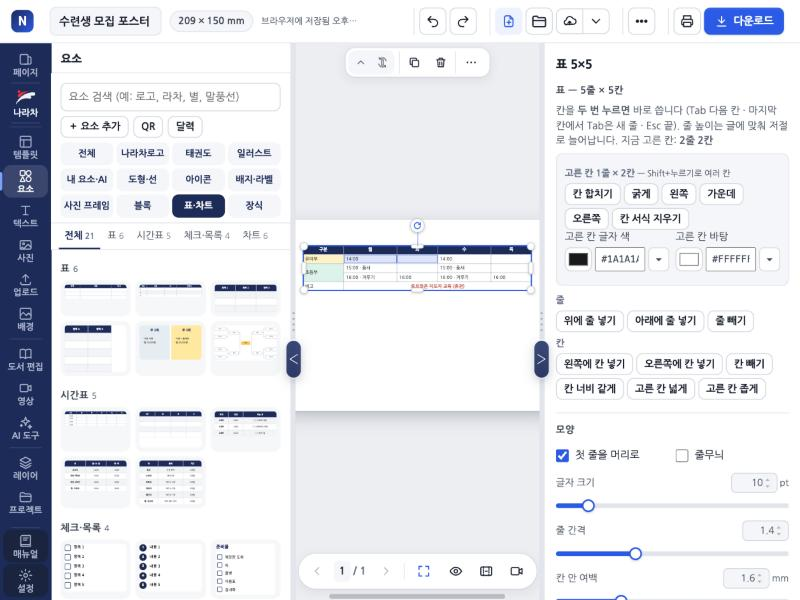
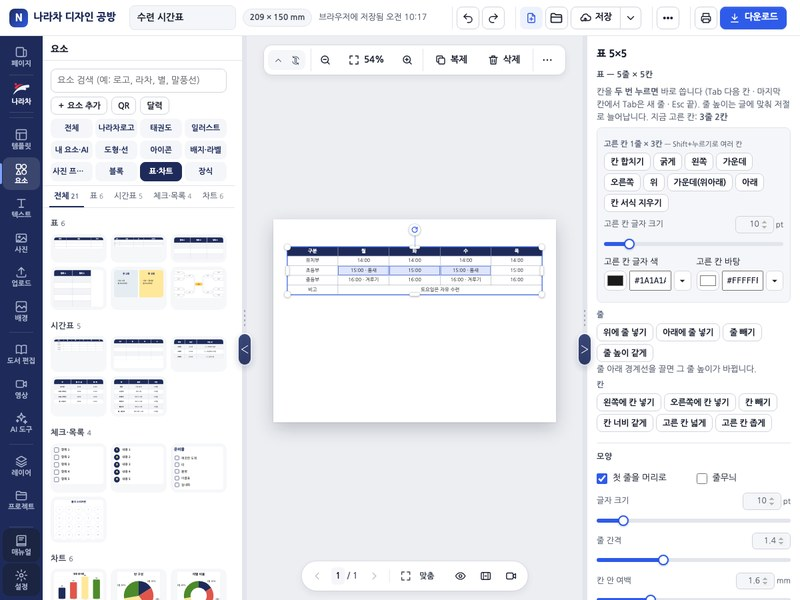
표 칸 글자 크기·위아래 정렬, 줄 높이 끌기, 세로 명함 템플릿 3가지, 매뉴얼 (20261127.1023)

diff --git a/app.js b/app.js
@@ -373,8 +373,9 @@ function tblNorm(el) {
   el.rows = R.map(r => Array.from({ length: C }, (_, i) => String(r[i] == null ? '' : r[i]).slice(0, 4000)));
   let W = Array.isArray(el.colW) ? el.colW.map(Number).filter(v => v > 0).slice(0, C) : []; while (W.length < C) W.push(1); el.colW = W;
   el.head = Math.max(0, Math.min(el.rows.length, Number(el.head) || 0));
-  const NR = el.rows.length, cs = {}; if (el.cs && typeof el.cs === 'object') for (const k in el.cs) { const m = /^(\d+),(\d+)$/.exec(k), v = el.cs[k]; if (!m || +m[1] >= NR || +m[2] >= C || !v || typeof v !== 'object') continue; const o = {}; if (v.b) o.b = 1; if (TBL_HEX(v.color)) o.color = v.color; if (TBL_HEX(v.bg)) o.bg = v.bg; if (['left', 'center', 'right'].includes(v.align)) o.align = v.align; if (Object.keys(o).length) cs[k] = o; }
+  const NR = el.rows.length, cs = {}; if (el.cs && typeof el.cs === 'object') for (const k in el.cs) { const m = /^(\d+),(\d+)$/.exec(k), v = el.cs[k]; if (!m || +m[1] >= NR || +m[2] >= C || !v || typeof v !== 'object') continue; const o = {}; if (v.b) o.b = 1; if (TBL_HEX(v.color)) o.color = v.color; if (TBL_HEX(v.bg)) o.bg = v.bg; if (['left', 'center', 'right'].includes(v.align)) o.align = v.align; if (['top', 'middle', 'bottom'].includes(v.va)) o.va = v.va; { const f = Number(v.fs); if (isFinite(f) && f >= 3 && f <= 200) o.fs = Math.round(f * 2) / 2; } if (Object.keys(o).length) cs[k] = o; }
   el.cs = cs;
+  if (Array.isArray(el.rh)) { const rh = Array.from({ length: NR }, (_, i) => { const v = Number(el.rh[i]); return isFinite(v) && v > 0 ? Math.min(300, Math.round(v * 10) / 10) : 0; }); if (rh.some(v => v)) el.rh = rh; else delete el.rh; } else delete el.rh;  /* 줄마다 최소 높이 mm (끌어서 바꿈, 0 = 글에 맞춤) */
   const taken = new Set(), M = []; (Array.isArray(el.merges) ? el.merges : []).forEach(m => { if (!m) return; let r = Math.floor(+m.r), c = Math.floor(+m.c), rs = Math.floor(+m.rs) || 1, cc = Math.floor(+m.cs) || 1; if (!(r >= 0 && c >= 0 && r < NR && c < C)) return; rs = Math.max(1, Math.min(rs, NR - r)); cc = Math.max(1, Math.min(cc, C - c)); if (rs * cc < 2) return; const keys = []; for (let i = r; i < r + rs; i++) for (let j = c; j < c + cc; j++) keys.push(i + ',' + j); if (keys.some(k => taken.has(k))) return; keys.forEach(k => taken.add(k)); M.push({ r, c, rs, cs: cc }); });
   el.merges = M; return el;
 }
@@ -384,7 +385,7 @@ function tblSafe(el) { const C = v => TBL_HEX(v) ? v : '', N = (v, d) => { v = N
   return { color: C(el.color) || '#1a1a1a', line: C(el.line) || '#9AA3B2', headBg: C(el.headBg) || '#1E2B5A', headColor: C(el.headColor) || '#FFFFFF', zebra: C(el.zebra), cellBg: C(el.cellBg), size: Math.max(3, Math.min(200, N(el.size, 10))), lh: Math.max(0.8, Math.min(4, N(el.lh, 1.4))), pad: Math.max(0, Math.min(30, N(el.pad, 1.6))), lineW: Math.max(0, Math.min(10, N(el.lineW, 0.3))), rowH: Math.max(0, Math.min(100, N(el.rowH, 0))), align: A(el.align, ['left', 'center', 'right'], 'left'), headAlign: A(el.headAlign, ['left', 'center', 'right'], 'center'), valign: A(el.valign, ['top', 'middle', 'bottom'], 'middle'), font: String(el.font || 'Nanum Gothic').replace(/[^\w\s가-힣-]/g, '').slice(0, 60) }; }
 /* 칸 하나의 실제 모양(머리·줄무늬·칸 서식을 겹쳐서) — 화면·PowerPoint가 같이 씀 */
 function tblCellLook(el, ri, ci) { const hd = ri < el.head, zb = !hd && el.zebra && (ri - el.head) % 2 === 1, o = (el.cs || {})[ri + ',' + ci] || {};
-  return { bg: o.bg || (hd ? el.headBg : zb ? el.zebra : el.cellBg) || '', color: o.color || (hd ? el.headColor : el.color), bold: !!(o.b || hd), align: o.align || (hd ? el.headAlign : el.align) }; }
+  return { bg: o.bg || (hd ? el.headBg : zb ? el.zebra : el.cellBg) || '', color: o.color || (hd ? el.headColor : el.color), bold: !!(o.b || hd), align: o.align || (hd ? el.headAlign : el.align), valign: o.va || el.valign || 'middle', fs: o.fs || 0 }; }
 let tblSel = null;  /* 표에서 Shift로 고른 칸 범위 { id, r0, c0, r1, c1 } */
 function tblRange(el) { const t = tblSel && tblSel.id === el.id ? tblSel : tblCell && tblCell.id === el.id ? { r0: tblCell.r, c0: tblCell.c, r1: tblCell.r, c1: tblCell.c } : null; if (!t) return null;
   let r0 = Math.min(t.r0, t.r1), r1 = Math.max(t.r0, t.r1), c0 = Math.min(t.c0, t.c1), c1 = Math.max(t.c0, t.c1), grow = true;
@@ -393,12 +394,13 @@ function tblRange(el) { const t = tblSel && tblSel.id === el.id ? tblSel : tblCe
 function tblHTML(el0, mode) {
   tblNorm(el0); const el = Object.assign({}, el0, tblSafe(el0)); const tot = el.colW.reduce((a, b) => a + b, 0), lw = Math.max(0, Number(el.lineW) || 0), bd = lw ? `${lw}mm solid ${el.line}` : '0';
   const cg = el.colW.map(v => `<col style="width:${(v / tot * 100).toFixed(3)}%">`).join(''), rg = mode === 'edit' && tblSel && tblSel.id === el0.id ? tblRange(el0) : null;
-  const body = el.rows.map((r, ri) => `<tr>${r.map((t, ci) => { const m = tblMergeAt(el, ri, ci); if (m && (m.r !== ri || m.c !== ci)) return ''; const L = tblCellLook(el, ri, ci), on = rg && ri >= rg.r0 && ri <= rg.r1 && ci >= rg.c0 && ci <= rg.c1;
-    return `<td data-r="${ri}" data-c="${ci}"${m ? ` rowspan="${m.rs}" colspan="${m.cs}"` : ''}${on ? ' class="tsel"' : ''} style="border:${bd};padding:${el.pad * 0.6}mm ${el.pad}mm;${el.rowH && ri >= el.head ? `height:${el.rowH}mm;` : ''}vertical-align:${el.valign};text-align:${L.align};${L.bg ? `background:${L.bg};` : ''}color:${L.color};${L.bold ? 'font-weight:700;' : ''}">${esc(t) || '&#8203;'}</td>`; }).join('')}</tr>`).join('');
+  const body = el.rows.map((r, ri) => `<tr${el.rh && el.rh[ri] ? ` style="height:${el.rh[ri]}mm"` : ''}>${r.map((t, ci) => { const m = tblMergeAt(el, ri, ci); if (m && (m.r !== ri || m.c !== ci)) return ''; const L = tblCellLook(el, ri, ci), on = rg && ri >= rg.r0 && ri <= rg.r1 && ci >= rg.c0 && ci <= rg.c1;
+    return `<td data-r="${ri}" data-c="${ci}"${m ? ` rowspan="${m.rs}" colspan="${m.cs}"` : ''}${on ? ' class="tsel"' : ''} style="border:${bd};padding:${el.pad * 0.6}mm ${el.pad}mm;${el.rowH && ri >= el.head ? `height:${el.rowH}mm;` : ''}vertical-align:${L.valign};text-align:${L.align};${L.fs ? `font-size:${L.fs}pt;` : ''}${L.bg ? `background:${L.bg};` : ''}color:${L.color};${L.bold ? 'font-weight:700;' : ''}">${esc(t) || '&#8203;'}</td>`; }).join('')}</tr>`).join('');
   return `<table class="tbl" style="font-family:'${el.font}',var(--font-ui),sans-serif;font-size:${el.size}pt;line-height:${el.lh};color:${el.color};border-collapse:collapse;width:100%;table-layout:fixed"><colgroup>${cg}</colgroup>${body}</table>`;
 }
 /* 줄·칸을 넣거나 뺄 때 칸 서식·합친 칸을 함께 옮김 (axis 'r'·'c', at 자리, d +1 넣기 / -1 빼기) */
 function tblShift(el, axis, at, d) {
+  if (axis === 'r' && Array.isArray(el.rh)) { if (d > 0) el.rh.splice(at, 0, 0); else el.rh.splice(at, 1); }
   const cs = {}; for (const k in el.cs || {}) { let [r, c] = k.split(',').map(Number); let v = axis === 'r' ? r : c; if (d < 0 && v === at) continue; if (v >= at + (d < 0 ? 1 : 0)) v += d; if (axis === 'r') r = v; else c = v; cs[r + ',' + c] = el.cs[k]; } el.cs = cs;
   el.merges = (el.merges || []).map(m => { const p = axis === 'r' ? 'r' : 'c', q = axis === 'r' ? 'rs' : 'cs', o = Object.assign({}, m);
     if (d > 0) { if (at <= o[p]) o[p] += 1; else if (at < o[p] + o[q]) o[q] += 1; }
@@ -1104,12 +1106,20 @@ wrap.addEventListener('dblclick', e => {
   const gl = e.target.closest('.ovl .cgl'); if (gl) { const el = selEls()[0]; if (el) { if (gl.dataset.cgl[0] === 'c') delete el.colW; else delete el.rowH; commit(); rerender(); toast(gl.dataset.cgl[0] === 'c' ? '모든 열 너비를 같게 했습니다' : '모든 행 높이를 같게 했습니다'); } return; }
   const cell = (document.elementsFromPoint(e.clientX, e.clientY).find(n => n.closest && n.closest('.el-cal .cell')) || e.target).closest('.el-cal .cell'); if (cell && sel.length === 1 && find(sel[0]).type === 'cal') { const c = Number(cell.dataset.c); cellSel = { id: sel[0], a: c, b: c }; renderOverlay(); openCellEditor(c); return; }
 });
+function tblRowDrag(e, dom, el, ri) { e.stopImmediatePropagation(); e.preventDefault(); const tr = dom.querySelectorAll('tr')[ri], k = dom.getBoundingClientRect().width / el.w; if (!tr || !(k > 0)) return;
+  const h0 = tr.getBoundingClientRect().height / k, y0 = e.clientY, rh0 = el.rh ? el.rh.slice() : null; let moved = false; tblColDrag = { row: ri };
+  const mv = ev => { const h = Math.max(2, h0 + (ev.clientY - y0) / k); if (Math.abs(ev.clientY - y0) > 2) moved = true; if (!moved) return; tr.style.height = h.toFixed(2) + 'mm'; const nh = dom.getBoundingClientRect().height / k; if (Math.abs(nh - el.h) > 0.05) { el.h = nh; renderOverlay(); } };
+  const up = ev => { document.removeEventListener('pointermove', mv); document.removeEventListener('pointerup', up); tblColDrag = null; if (moved) { const h = Math.max(2, h0 + (ev.clientY - y0) / k); el.rh = el.rows.map((_, i) => i === ri ? Math.round(h * 10) / 10 : ((rh0 || [])[i] || 0)); tblNorm(el); commit(); toast(`${ri + 1}번째 줄 높이 ${Math.round(h * 10) / 10}mm (글에 맞추려면 「줄 높이 저절로」)`); } renderCanvas(); renderOverlay(); renderInspector(); };
+  document.addEventListener('pointermove', mv); document.addEventListener('pointerup', up); }
 wrap.addEventListener('dblclick', e => { const td = e.target.closest('.el-tbl td'); if (!td) return; const el = find(td.closest('.el-tbl').dataset.id); if (!el || el.locked) return; e.stopImmediatePropagation(); e.preventDefault(); if (!sel.includes(el.id)) select([el.id]); openTblEditor(el, Number(td.dataset.r), Number(td.dataset.c)); }, true);  /* 표 칸: 두 번 누르면 바로 쓰기 */
 /* 표 칸 경계 끌기 (11/26): 고른 표의 세로 경계 가까이(5px)에서 끌면 양옆 칸 너비가 바뀜 — 끄는 동안은 <col>만 바꿔 보여 주고 놓으면 저장 */
 function tblBorderAt(dom, el, x, y) { if (!el || el.rot) return -1; const r = dom.getBoundingClientRect(); if (y < r.top || y > r.bottom) return -1; const tot = el.colW.reduce((a, b) => a + b, 0); let cum = 0; for (let b = 0; b < el.colW.length - 1; b++) { cum += el.colW[b]; if (Math.abs(r.left + cum / tot * r.width - x) <= 5) return b; } return -1; }
 let tblColDrag = null;
-wrap.addEventListener('pointermove', e => { if (tblColDrag) return; const dom = e.target.closest && e.target.closest('.el-tbl'); if (!dom) return; const el = find(dom.dataset.id); if (!el || !sel.includes(el.id) || el.locked) { dom.style.cursor = ''; return; } tblNorm(el); dom.style.cursor = tblBorderAt(dom, el, e.clientX, e.clientY) >= 0 ? 'col-resize' : ''; });
-wrap.addEventListener('pointerdown', e => { const dom = e.target.closest && e.target.closest('.el-tbl'); if (!dom || e.button) return; const el = find(dom.dataset.id); if (!el || !sel.includes(el.id) || el.locked) return; tblNorm(el); const b = tblBorderAt(dom, el, e.clientX, e.clientY); if (b < 0) return;
+/* 줄 경계 (11/27): 고른 표의 줄 아래 경계 가까이(4px)면 그 줄 번호 — 끌면 그 줄 최소 높이(el.rh) */
+function tblRowBorderAt(dom, el, x, y) { if (!el || el.rot) return -1; const r = dom.getBoundingClientRect(); if (x < r.left || x > r.right) return -1; const trs = dom.querySelectorAll('tr'); for (let i = 0; i < trs.length; i++) { if (Math.abs(trs[i].getBoundingClientRect().bottom - y) <= 4) return i; } return -1; }
+function tblEqRows(el) { const dom = $('#canvas') && $('#canvas').querySelector(`[data-id="${el.id}"]`); if (!dom) return; const trs = [...dom.querySelectorAll('tr')], k = dom.getBoundingClientRect().width / el.w; if (!(k > 0)) return; let mx = 0; trs.forEach((t, i) => { if (i >= el.head) mx = Math.max(mx, t.getBoundingClientRect().height / k); }); el.rh = el.rows.map((_, i) => i >= el.head ? Math.round(mx * 10) / 10 : ((el.rh || [])[i] || 0)); }
+wrap.addEventListener('pointermove', e => { if (tblColDrag) return; const dom = e.target.closest && e.target.closest('.el-tbl'); if (!dom) return; const el = find(dom.dataset.id); if (!el || !sel.includes(el.id) || el.locked) { dom.style.cursor = ''; return; } tblNorm(el); dom.style.cursor = tblBorderAt(dom, el, e.clientX, e.clientY) >= 0 ? 'col-resize' : tblRowBorderAt(dom, el, e.clientX, e.clientY) >= 0 ? 'row-resize' : ''; });
+wrap.addEventListener('pointerdown', e => { const dom = e.target.closest && e.target.closest('.el-tbl'); if (!dom || e.button) return; const el = find(dom.dataset.id); if (!el || !sel.includes(el.id) || el.locked) return; tblNorm(el); const b = tblBorderAt(dom, el, e.clientX, e.clientY); if (b < 0) { const rr = tblRowBorderAt(dom, el, e.clientX, e.clientY); if (rr >= 0) tblRowDrag(e, dom, el, rr); return; }
   e.stopImmediatePropagation(); e.preventDefault(); const r = dom.getBoundingClientRect(), tot = el.colW.reduce((a, c) => a + c, 0); tblColDrag = { id: el.id, b, x0: e.clientX, w0: el.colW.slice(), perPx: tot / r.width, tot };
   const mv = ev => { const D = tblColDrag; if (!D) return; const d = (ev.clientX - D.x0) * D.perPx, mn = D.tot * 0.04, a = Math.max(mn, Math.min(D.w0[D.b] + D.w0[D.b + 1] - mn, D.w0[D.b] + d)); el.colW = D.w0.slice(); el.colW[D.b] = a; el.colW[D.b + 1] = D.w0[D.b] + D.w0[D.b + 1] - a; const cols = dom.querySelectorAll('col'); el.colW.forEach((v, i) => { if (cols[i]) cols[i].style.width = (v / D.tot * 100).toFixed(3) + '%'; }); };
   const up = () => { document.removeEventListener('pointermove', mv); document.removeEventListener('pointerup', up); const D = tblColDrag; tblColDrag = null; if (D && el.colW.some((v, i) => Math.abs(v - D.w0[i]) > 1e-6)) { el.colW = el.colW.map(v => Math.round(v * 1000) / 1000); commit(); } renderCanvas(); renderOverlay(); renderInspector(); };
@@ -4116,13 +4126,14 @@ function renderInspector() {
     h += `<h3>표 — ${R}줄 × ${C}칸</h3><p class="hint" style="margin:0 0 6px">칸을 <b>두 번 누르면</b> 바로 씁니다 (Tab 다음 칸 · 마지막 칸에서 Tab은 새 줄 · Esc 끝). 줄 높이는 글에 맞춰 저절로 늘어납니다.${cc ? ` 지금 고른 칸: <b>${cc.r + 1}줄 ${cc.c + 1}칸</b>` : ' 칸을 한 번 누르면 그 칸 기준으로 줄·칸을 넣고 뺍니다.'}</p>
     ${(() => { const rg = tblRange(el); if (!rg) return ''; const n = (rg.r1 - rg.r0 + 1) * (rg.c1 - rg.c0 + 1), L = tblCellLook(el, rg.r0, rg.c0), mg = (el.merges || []).some(m => !(m.r > rg.r1 || m.r + m.rs - 1 < rg.r0 || m.c > rg.c1 || m.c + m.cs - 1 < rg.c0));
       return `<div class="tbsel"><div class="pk-lb">고른 칸 ${n > 1 ? `${rg.r1 - rg.r0 + 1}줄 × ${rg.c1 - rg.c0 + 1}칸` : `${rg.r0 + 1}줄 ${rg.c0 + 1}칸`} <small class="hint" style="margin:0">— Shift+누르기로 여러 칸</small></div>
-      <div class="row" style="flex-wrap:wrap;gap:4px">${TB('merge', '칸 합치기', '고른 칸을 한 칸으로 (글은 모두 남김)')}${mg ? TB('split', '합친 칸 나누기') : ''}${TB('bold', L.bold ? '굵게 끄기' : '굵게')}${TB('al:left', '왼쪽')}${TB('al:center', '가운데')}${TB('al:right', '오른쪽')}${TB('fmtClear', '칸 서식 지우기', '고른 칸의 굵게·색·정렬을 표 기본으로')}</div>
+      <div class="row" style="flex-wrap:wrap;gap:4px">${TB('merge', '칸 합치기', '고른 칸을 한 칸으로 (글은 모두 남김)')}${mg ? TB('split', '합친 칸 나누기') : ''}${TB('bold', L.bold ? '굵게 끄기' : '굵게')}${TB('al:left', '왼쪽')}${TB('al:center', '가운데')}${TB('al:right', '오른쪽')}${TB('va:top', '위', '칸 안에서 위로')}${TB('va:middle', '가운데(위아래)', '칸 안에서 위아래 가운데')}${TB('va:bottom', '아래', '칸 안에서 아래로')}${TB('fmtClear', '칸 서식 지우기', '고른 칸의 굵게·색·정렬·글자 크기를 표 기본으로')}</div>
+      ${F('고른 칸 글자 크기', 'tc.fs', L.fs || el.size, { type: 'slider', min: 6, max: 40, step: 0.5, unit: 'pt', def: el.size })}
       <div class="grid2">${F('고른 칸 글자 색', 'tc.color', L.color, { type: 'color' })}${F('고른 칸 바탕', 'tc.bg', L.bg || '#ffffff', { type: 'color' })}</div></div>`; })()}
-    <div class="pk-lb">줄</div><div class="row" style="flex-wrap:wrap;gap:4px">${TB('rowUp', '위에 줄 넣기')}${TB('rowDn', '아래에 줄 넣기')}${TB('rowDel', '줄 빼기', '고른 칸의 줄을 뺌')}</div>
+    <div class="pk-lb">줄</div><div class="row" style="flex-wrap:wrap;gap:4px">${TB('rowUp', '위에 줄 넣기')}${TB('rowDn', '아래에 줄 넣기')}${TB('rowDel', '줄 빼기', '고른 칸의 줄을 뺌')}${TB('rhEq', '줄 높이 같게', '머리 줄 빼고 모든 줄을 가장 높은 줄 높이로')}${el.rh ? TB('rhClear', '줄 높이 저절로', '끌어서 바꾼 줄 높이를 지우고 글에 맞춤') : ''}</div><p class="hint" style="margin:2px 0 0">줄 아래 경계선을 끌면 그 줄 높이가 바뀝니다.</p>
     <div class="pk-lb" style="margin-top:6px">칸</div><div class="row" style="flex-wrap:wrap;gap:4px">${TB('colL', '왼쪽에 칸 넣기')}${TB('colR', '오른쪽에 칸 넣기')}${TB('colDel', '칸 빼기', '고른 칸의 세로 칸을 뺌')}${TB('eqW', '칸 너비 같게')}${TB('wPlus', '고른 칸 넓게', '고른 칸을 넓히고 나머지를 줄임')}${TB('wMinus', '고른 칸 좁게')}</div>
     <h3>모양</h3><div class="grid2">${F('첫 줄을 머리로', 'head', el.head > 0, { type: 'check' })}${F('줄무늬', 'tblZebra', !!el.zebra, { type: 'check' })}</div>
     ${F('글자 크기', 'size', el.size, { type: 'slider', min: 6, max: 40, step: 0.5, unit: 'pt', def: 10 })}${F('줄 간격', 'lh', el.lh, { type: 'slider', min: 1, max: 2.2, step: 0.05, def: 1.4 })}${F('칸 안 여백', 'pad', el.pad, { type: 'slider', min: 0, max: 6, step: 0.1, unit: 'mm', def: 1.6 })}${F('줄 최소 높이 (손글씨 칸)', 'rowH', el.rowH || 0, { type: 'slider', min: 0, max: 30, step: 0.5, unit: 'mm', def: 0 })}
-    <div class="grid2">${F('글꼴', 'font', el.font, { type: 'select', options: [['Nanum Gothic', '나눔고딕'], ['Noto Sans KR', '본고딕(Noto Sans)'], ['Pretendard', '프리텐다드'], ['Nanum Myeongjo', '나눔명조'], ['Noto Serif KR', '본명조(Noto Serif)'], ['Jua', '주아'], ['Gowun Dodum', '고운돋움']] })}${F('정렬', 'align', el.align, { type: 'select', options: [['left', '왼쪽'], ['center', '가운데'], ['right', '오른쪽']] })}</div>
+    <div class="grid2">${F('글꼴', 'font', el.font, { type: 'select', options: [['Nanum Gothic', '나눔고딕'], ['Noto Sans KR', '본고딕(Noto Sans)'], ['Pretendard', '프리텐다드'], ['Nanum Myeongjo', '나눔명조'], ['Noto Serif KR', '본명조(Noto Serif)'], ['Jua', '주아'], ['Gowun Dodum', '고운돋움']] })}${F('정렬', 'align', el.align, { type: 'select', options: [['left', '왼쪽'], ['center', '가운데'], ['right', '오른쪽']] })}</div>${F('칸 안 위아래', 'valign', el.valign, { type: 'select', options: [['top', '위'], ['middle', '가운데'], ['bottom', '아래']] })}
     <div class="grid2">${F('글자 색', 'color', el.color, { type: 'color' })}${F('선 색', 'line', el.line, { type: 'color' })}</div>
     <div class="row" style="gap:6px;align-items:flex-end">${F('칸 바탕', 'cellBg', el.cellBg || '#ffffff', { type: 'color' })}<button class="btn sm" data-set="cellBg:" title="칸 바탕 없이(뒤 배경이 비침)">바탕 없음</button></div>
     ${F('선 굵기', 'lineW', el.lineW, { type: 'slider', min: 0, max: 1.5, step: 0.05, unit: 'mm', def: 0.3 })}
@@ -4274,15 +4285,18 @@ function tblAct(el, a) {
     el.merges = (el.merges || []).filter(m => m.r > rg.r1 || m.r + m.rs - 1 < rg.r0 || m.c > rg.c1 || m.c + m.cs - 1 < rg.c0).concat([{ r: rg.r0, c: rg.c0, rs: rg.r1 - rg.r0 + 1, cs: rg.c1 - rg.c0 + 1 }]); tblCell = { id: el.id, r: rg.r0, c: rg.c0 }; keep(); }
   else if (a === 'split') { const before = (el.merges || []).length; el.merges = (el.merges || []).filter(m => m.r > rg.r1 || m.r + m.rs - 1 < rg.r0 || m.c > rg.c1 || m.c + m.cs - 1 < rg.c0); if (el.merges.length === before) { toast('고른 칸에 합친 칸이 없습니다'); return; } keep(); }
   else if (a === 'bold') { let all = true; each((i, j) => { if (!tblCellLook(el, i, j).bold) all = false; }); each((i, j) => { const k = i + ',' + j, o = Object.assign({}, el.cs[k]); if (all) delete o.b; else o.b = 1; if (Object.keys(o).length) el.cs[k] = o; else delete el.cs[k]; }); }
+  else if (/^va:/.test(a)) { const v = a.slice(3); each((i, j) => { const k = i + ',' + j; el.cs[k] = Object.assign({}, el.cs[k], { va: v }); }); }
+  else if (a === 'rhClear') { delete el.rh; }
+  else if (a === 'rhEq') { tblEqRows(el); }
   else if (/^al:/.test(a)) { const v = a.slice(3); each((i, j) => { const k = i + ',' + j; el.cs[k] = Object.assign({}, el.cs[k], { align: v }); }); }
   else if (a === 'fmtClear') each((i, j) => { delete el.cs[i + ',' + j]; });
   commit(); renderCanvas(); renderOverlay(); renderInspector();
 }
 /* 고른 칸들의 글자 색·바탕 (속성 칸의 색 고르기) */
-function tblCellSet(el, k, v) { tblNorm(el); const rg = tblRange(el); if (!rg) return; for (let i = rg.r0; i <= rg.r1; i++) for (let j = rg.c0; j <= rg.c1; j++) { const key = i + ',' + j, o = Object.assign({}, el.cs[key]); if (v && TBL_HEX(v)) o[k] = v; else delete o[k]; if (Object.keys(o).length) el.cs[key] = o; else delete el.cs[key]; } }
+function tblCellSet(el, k, v) { tblNorm(el); const rg = tblRange(el); if (!rg) return; for (let i = rg.r0; i <= rg.r1; i++) for (let j = rg.c0; j <= rg.c1; j++) { const key = i + ',' + j, o = Object.assign({}, el.cs[key]); if (k === 'fs') { const f = Number(v); if (isFinite(f) && f >= 3 && f <= 200 && Math.abs(f - Number(el.size)) > 0.01) o.fs = f; else delete o.fs; } else if (v && TBL_HEX(v)) o[k] = v; else delete o[k]; if (Object.keys(o).length) el.cs[key] = o; else delete el.cs[key]; } }
 /* 지금 고른 칸들을 화면에서 표시만 (다시 그리지 않음 — 누르는 중에 화면을 바꾸면 끌기가 끊김) */
 function tblPaintSel(id) { const el = find(id), dom = $('#canvas') && $('#canvas').querySelector(`[data-id="${id}"]`); if (!el || !dom) return; const rg = tblSel && tblSel.id === id ? tblRange(el) : null; dom.querySelectorAll('td').forEach(td => { const r = +td.dataset.r, c = +td.dataset.c; td.classList.toggle('tsel', !!rg && r >= rg.r0 && r <= rg.r1 && c >= rg.c0 && c <= rg.c1); }); }
-function setK(obj, k, v) { if (obj && obj.type === 'tbl' && (k === 'tc.color' || k === 'tc.bg')) { tblCellSet(obj, k.slice(3), v); return; } if (obj && obj.type === 'tbl' && (k === 'head' || k === 'tblZebra')) { if (k === 'head') obj.head = v === true || v === 'true' || v === 'on' || v === 1 ? 1 : 0; else obj.zebra = v === true || v === 'true' || v === 'on' ? (obj.zebraC || '#F3F4F7') : ''; return; } if (obj && obj.type === 'tbl' && k === 'zebra') obj.zebraC = v; if (obj && (obj.type === 'cal' || obj.type === 'mini') && /^s\./.test(k)) obj.sUser = Object.assign({}, obj.sUser, { [k.slice(2)]: 1 });  /* 달력 모양 중 사용자가 바꾼 것 — 테마·달을 바꿔도 남김 */ if (k === 'size' && obj && obj.fitText && Number(v) > 0) { obj.fitMax = Number(v); fitCache.delete(obj.id); } /* 자동 맞춤 글자: 고른 크기가 새 최대 */ const ks = k.split('.'); let a = obj; for (let i = 0; i < ks.length - 1; i++) { if (a[ks[i]] == null) a[ks[i]] = ks[i + 1].match(/^\d+$/) ? [] : {}; a = a[ks[i]]; } a[ks[ks.length - 1]] = v; }
+function setK(obj, k, v) { if (obj && obj.type === 'tbl' && (k === 'tc.color' || k === 'tc.bg' || k === 'tc.fs')) { tblCellSet(obj, k.slice(3), v); return; } if (obj && obj.type === 'tbl' && (k === 'head' || k === 'tblZebra')) { if (k === 'head') obj.head = v === true || v === 'true' || v === 'on' || v === 1 ? 1 : 0; else obj.zebra = v === true || v === 'true' || v === 'on' ? (obj.zebraC || '#F3F4F7') : ''; return; } if (obj && obj.type === 'tbl' && k === 'zebra') obj.zebraC = v; if (obj && (obj.type === 'cal' || obj.type === 'mini') && /^s\./.test(k)) obj.sUser = Object.assign({}, obj.sUser, { [k.slice(2)]: 1 });  /* 달력 모양 중 사용자가 바꾼 것 — 테마·달을 바꿔도 남김 */ if (k === 'size' && obj && obj.fitText && Number(v) > 0) { obj.fitMax = Number(v); fitCache.delete(obj.id); } /* 자동 맞춤 글자: 고른 크기가 새 최대 */ const ks = k.split('.'); let a = obj; for (let i = 0; i < ks.length - 1; i++) { if (a[ks[i]] == null) a[ks[i]] = ks[i + 1].match(/^\d+$/) ? [] : {}; a = a[ks[i]]; } a[ks[ks.length - 1]] = v; }
 $('#inspector').addEventListener('change', e => { const k = e.target.dataset.k; if (k === 'grp.w' || k === 'grp.h') { const ev = new Event('input', { bubbles: true }); ev.__apply = true; e.target.dispatchEvent(ev); } }, true);
 $('#inspector').addEventListener('input', e => {
   const t = e.target, k = t.dataset.k; if (!k) return;
@@ -6307,8 +6321,8 @@ async function exportPPTX(pages, say, base, asImg, keepFonts) {
     const s = pptx.addSlide(); s.addImage({ data, x: 0, y: 0, w: iw, h: ih, altText: '바탕(도형·그림)' });
     for (const e of tx) { const runs = pptRuns(e); pptLineSp(runs, Number(e.lh) || 1.3); runs.forEach(r => { if (embed) { const f = faceOf.get(r.options.fontFace + '|' + (Number(r.options._w) || (r.options.bold ? 700 : 400))); if (f) { r.options.fontFace = f.name; r.options.bold = f.bold || (!!r.options.bold && !/thin|light|medium|semibold|extrabold|black|heavy/i.test(f.name)); } else r.options.fontFace = PPT_SERIF.test(r.options.fontFace || '') ? 'Batang' : 'Malgun Gothic'; } else if (!keepFonts) r.options.fontFace = PPT_SERIF.test(r.options.fontFace || '') ? 'Batang' : 'Malgun Gothic'; fonts.add(r.options.fontFace); }); s.addText(runs, pptTextOpts(e)); nText++; }
     for (const e of tbs) { tblNorm(e); const PT = 72 / 25.4, tot = e.colW.reduce((a, b) => a + b, 0), hex = c => String(c || '#000000').replace('#', '').slice(0, 6), face = embed ? ((faceOf.get(tblSafe(e).font + '|400') || {}).name || (PPT_SERIF.test(e.font || '') ? 'Batang' : 'Malgun Gothic')) : keepFonts ? tblSafe(e).font : (PPT_SERIF.test(e.font || '') ? 'Batang' : 'Malgun Gothic');  /* 표는 PowerPoint 표로 (칸 글을 고칠 수 있게) */
-      const rows = e.rows.map((r, ri) => r.map((t, ci) => { const m = tblMergeAt(e, ri, ci); if (m && (m.r !== ri || m.c !== ci)) return null; const L = tblCellLook(e, ri, ci), o = { bold: L.bold, color: hex(L.color), align: L.align }; if (L.bg) o.fill = { color: hex(L.bg) }; if (m) { o.rowspan = m.rs; o.colspan = m.cs; } return { text: t, options: o }; }).filter(Boolean));  /* 합친 칸은 rowspan·colspan, 덮인 칸은 뺌 */
-      try { s.addTable(rows, Object.assign(Number(e.rowH) > 0 ? { rowH: e.rows.map((r, ri) => ri < e.head ? 0.3 : Number(e.rowH) / 25.4) } : {}, { x: e.x / 25.4, y: e.y / 25.4, w: e.w / 25.4, colW: e.colW.map(v => e.w / 25.4 * v / tot), fontFace: face, fontSize: e.size, color: hex(e.color), align: e.align, valign: e.valign === 'middle' ? 'middle' : e.valign, margin: e.pad * PT * 0.6, border: { type: e.lineW ? 'solid' : 'none', pt: Math.max(0.25, e.lineW * PT), color: hex(e.line) } })); nTbl++; if (!keepFonts || embed) fonts.add(face); } catch (er) { console.warn('표 내보내기 실패', er); } }
+      const rows = e.rows.map((r, ri) => r.map((t, ci) => { const m = tblMergeAt(e, ri, ci); if (m && (m.r !== ri || m.c !== ci)) return null; const L = tblCellLook(e, ri, ci), o = { bold: L.bold, color: hex(L.color), align: L.align, valign: L.valign }; if (L.fs) o.fontSize = L.fs; if (L.bg) o.fill = { color: hex(L.bg) }; if (m) { o.rowspan = m.rs; o.colspan = m.cs; } return { text: t, options: o }; }).filter(Boolean));  /* 합친 칸은 rowspan·colspan, 덮인 칸은 뺌 */
+      try { s.addTable(rows, Object.assign(Number(e.rowH) > 0 || e.rh ? { rowH: e.rows.map((r, ri) => { const mm = Math.max((e.rh || [])[ri] || 0, ri >= e.head ? Number(e.rowH) || 0 : 0); return mm ? mm / 25.4 : 0.3; }) } : {}, { x: e.x / 25.4, y: e.y / 25.4, w: e.w / 25.4, colW: e.colW.map(v => e.w / 25.4 * v / tot), fontFace: face, fontSize: e.size, color: hex(e.color), align: e.align, valign: e.valign === 'middle' ? 'middle' : e.valign, margin: e.pad * PT * 0.6, border: { type: e.lineW ? 'solid' : 'none', pt: Math.max(0.25, e.lineW * PT), color: hex(e.line) } })); nTbl++; if (!keepFonts || embed) fonts.add(face); } catch (er) { console.warn('표 내보내기 실패', er); } }
     if (pg.notes) s.addNotes(String(pg.notes)); }
   say('파일 만드는 중…'); let blob = await pptx.write({ outputType: 'blob' }); if (embFaces.length) { say(`글꼴 ${embFaces.length}개 넣는 중…`); blob = await pptEmbed(blob, embFaces); } saveBlob(blob, `${base}.pptx`);
   if (embed && !asImg) { const sk = [...skipped].map(([f, w]) => `${f} — ${w}`); toast(`PowerPoint 파일로 저장했습니다 — ${pages.length}쪽 · 글 상자 ${nText}개${nTbl ? ` · 표 ${nTbl}개` : ''} · 📦 글꼴 ${embFaces.length ? [...new Set(embFaces.map(f => f.name))].join(', ') + ` 넣음` : '넣은 것 없음'} · 파일 ${(blob.size / 1048576).toFixed(1)}MB${sk.length ? ` · 못 넣은 글꼴(맑은 고딕·바탕으로): ${sk.join(' / ')}` : ''}`); return; }
@@ -6371,7 +6385,7 @@ function doPaste(inPlace) {
 }
 
 /* ---- 스타일 복사·붙여넣기 (Ctrl+Alt+C / Ctrl+Alt+V) ---- */
-const STYLE_SKIP = new Set(['rot', 'zoom', 'panX', 'panY', 'pos', 'clip', 'flip', 'flipV', 'fit', 'crop', 'id', 'type', 'x', 'y', 'w', 'h', 'text', 'html', 'htmlFor', 'src', 'srcOrig', 'name', 'role', 'month', 'group', 'locked', 'hidden', 'gen', 'pts', 'data', 'events', 'notes', 'cells', 'merges', 'colW', 'rowH', 'year', 'title', 'kind']);
+const STYLE_SKIP = new Set(['rot', 'zoom', 'panX', 'panY', 'pos', 'clip', 'flip', 'flipV', 'fit', 'crop', 'id', 'type', 'x', 'y', 'w', 'h', 'text', 'html', 'htmlFor', 'src', 'srcOrig', 'name', 'role', 'month', 'group', 'locked', 'hidden', 'gen', 'pts', 'data', 'events', 'notes', 'cells', 'merges', 'colW', 'rowH', 'rows', 'cs', 'rh', 'year', 'title', 'kind']);
 let styleClip = null;
 function copyStyle() { const el = selEls()[0]; if (!el) return; const st = {}; Object.keys(el).forEach(k => { if (!STYLE_SKIP.has(k)) st[k] = clone(el[k]); }); if (el.type === 'shape') st.kind = el.kind; styleClip = { type: el.type, st }; toast('스타일을 복사했습니다 (Ctrl+Alt+V로 다른 요소에 붙여넣기)'); }
 function pasteStyle() {

diff --git a/manual.js b/manual.js
@@ -112,8 +112,8 @@ window.NC_MANUAL = [
         marks: [[22, 29, '1단 12칸 (4×3)'], [20.5, 38.2, '2단계 메뉴'], [16, 42.8, '도형 색 고르기'], [31.5, 48.6, '더보기 › = 그 묶음 전체']], go: [['elems', '요소 열기']] },
       { stage: '④ 꾸미기·요소', t: '요소 빼기·지우기·더하기', d: '요소는 칸별로 나뉩니다 — <b>나라차로고</b>(로고·심볼·엠블럼만) · <b>태권도</b>(띠·상·메달·격파·품새 + 자료실의 태권도 포즈 사진·겨루기·동작 실루엣) · <b>일러스트</b>(인성 캐릭터·인성 장면·라차·단체·지난 그림) · <b>내 요소·AI</b>(내가 올린 그림·AI 그림·내 블록) · 도형·선 …. 요소에 마우스를 올리면 오른쪽 위에 <b>×</b>가 나옵니다: 프로그램·자료실 요소는 <b>목록에서만 빠지고</b>(원본 파일은 그대로) 패널 맨 아래 <b>「뺀 요소 — 되살리기」</b>에서 다시 살릴 수 있고, 내가 올린 그림·AI 그림은 물어본 뒤 <b>정말 지웁니다</b>. 자료실 묶음 제목 옆 「묶음 빼기」로 한 묶음을 통째로 뺄 수도 있어요(태권도 캐릭터(만화)는 처음부터 빠져 있음). 뺀 목록은 자료실 폴더에 보관돼 두 PC가 같습니다. 「뺀 요소」의 <b>비우기</b>는 뺀 자료실 그림·내 그림을 정말 지웁니다(구글 드라이브 휴지통 30일 · 자료실 목록 백업을 남김 · 프로그램 요소는 계속 빠진 채). <b>요소 더하기</b>: 넣을 칸(나라차로고·태권도·내 요소·AI)을 고른 뒤 위 <b>＋ 요소 추가</b>(또는 칸 안의 「＋ 로고 추가」·「＋ 태권도 그림 추가」)를 눌러 PNG·SVG·JPG를 고르거나, 파일을 요소 패널에 <b>끌어 놓으면</b> 그 칸에 들어갑니다(자료실에 보관 — 두 PC 모두). 나라차로고 칸에는 팀장님이 주신 원본 — <b>라차 4가지</b>(NARACHA 로고·옆차기·겨루기 준비·높이 차기, 고화질), <b>사각 로고·시범단 로고(사각·육각)·라인 패턴 띠·은은한 상징(워터마크)</b> — 도 있습니다. 시범단 육각 로고는 두 가지입니다(나라차로고 → <b>로고 · 심볼</b> 칸 끝, 사각 로고들 옆) — 그림 아래 작은 배지 <b>「흰 바탕」</b>은 육각 안이 흰색으로 채워져 어떤 바탕·사진 위에서도 글자가 또렷하고, <b>「배경 없음」</b>(연한 체크무늬 카드)은 육각 안이 비어 있어 바탕색·사진이 비쳐 보입니다. 그림 아래 <b>배경 없음</b> 배지가 붙은 흰 로고(어두운 체크무늬 카드)는 보이게 어두운 바탕 위에 보여 줄 뿐, 넣으면 배경 없이 흰 로고만 들어갑니다(어두운 바탕·사진 위에 쓰세요). 요소 카드에는 이름을 적지 않고 그림만 보입니다 — 이름은 마우스를 올리면 나옵니다.', img: 'm87-elem-tabs.jpg',
         marks: [[22, 32, '나라차로고 · 태권도 · 내 요소·AI'], [15.3, 77, '배경 없음 배지'], [14.6, 26.3, '＋ 요소 추가 (지금 칸에)']], go: [['elems', '요소 열기']] },
-      { stage: '④ 꾸미기·요소', t: '표 — 칸에 바로 쓰고 줄·칸 넣기·칸 합치기', d: '<b>요소 → 표·차트 → 표</b> 맨 앞의 「표 (칸에 바로 쓰기)」·「시간표」·「명단표」는 진짜 표입니다. 넣은 뒤 칸을 <b>두 번 누르면</b> 그 칸에 바로 씁니다 — <b>Tab</b> 다음 칸(마지막 칸에서 Tab은 새 줄), <b>Shift+Tab</b> 앞 칸, <b>Esc</b> 끝. 줄 높이는 글 길이에 맞춰 <b>저절로</b> 늘고 줄어듭니다. 손으로 적는 명단·서식이면 오른쪽 <b>줄 최소 높이</b>(예: 10mm)를 정하면 빈 줄도 그 높이가 됩니다(머리 줄은 빼고). <b>칸 고르기</b>: 표를 한 번 누르면 표 전체가 골라지고, 고른 표의 칸을 <b>한 번 더 누르면</b> 그 칸이 파랗게 골라집니다 — 화살표로 옆 칸으로 옮기고(Shift+화살표는 넓히기), <b>Enter</b>로 쓰기, 바로 치면 그 칸에 새 글, <b>⌘B / Ctrl+B</b>로 고른 칸 굵게, <b>Esc</b>로 칸 고르기를 풉니다. <b>여러 칸 고르기</b>: 칸을 한 번 누른 뒤 <b>Shift를 누른 채</b> 다른 칸을 누르면 그 사이 칸이 모두 파랗게 골라집니다. 오른쪽 맨 위 「고른 칸」에서 <b>칸 합치기</b>(글은 모두 남겨 줄을 바꿔 이어 붙임) · <b>합친 칸 나누기</b> · <b>굵게</b> · 왼쪽/가운데/오른쪽 · <b>고른 칸 글자 색·바탕</b> · 칸 서식 지우기. 줄·칸을 넣거나 빼도 합친 칸과 칸 서식이 함께 따라갑니다. <b>칸 너비</b>는 표를 고른 뒤 세로 경계선에 마우스를 대면 ↔ 모양이 되고, 그대로 끌면 양옆 칸 너비가 바뀝니다. <b>엑셀·한글·구글 시트에서 표를 복사</b>해 칸을 고른 채(또는 칸에 쓰는 중) <b>붙여넣기(Ctrl+V)</b>하면 그 칸부터 여러 칸에 나눠 들어가고, 모자란 줄·칸은 저절로 더해집니다. 거꾸로 표에서 Shift로 여러 칸을 고르고 <b>복사(Ctrl+C)</b>하면 엑셀·한글에 붙여 넣을 수 있는 모양으로 복사되고, <b>Delete</b>를 누르면 고른 칸의 글만 지워집니다(표 전체를 지우려면 칸을 한 번 눌러 고르기를 푼 뒤 Delete). 칸에서 <b>오른쪽 버튼</b>을 누르면 맨 위에 그 칸 기준 줄·칸 넣기·빼기, 칸 합치기(여러 칸을 먼저 고른 때)·합친 칸 나누기·굵게가 바로 나옵니다. 칸을 한 번 누르고 오른쪽에서 <b>위·아래에 줄 넣기 · 줄 빼기 · 왼쪽·오른쪽에 칸 넣기 · 칸 빼기 · 칸 너비 같게 · 고른 칸 넓게/좁게</b>. 모양: 첫 줄을 머리로(남색 바탕·흰 굵은 글), 줄무늬, 글자 크기·줄 간격·칸 안 여백·글꼴·정렬·글자 색·선 색·선 굵기·칸 바탕(바탕 없음이면 뒤 배경이 비침). PowerPoint로 내보내면 <b>PowerPoint 표</b>로 들어가 거기서도 칸 글을 고칠 수 있습니다. 찾아 바꾸기에도 표 칸 글이 들어갑니다. 예전 표(사각형·글 상자를 모은 것)는 그대로 쓸 수 있어요.', img: 'm106-table.jpg',
-        marks: [[11.9, 49.5, '진짜 표 넣기'], [52, 44, '두 번 누르면 쓰기 · Shift+누르기로 여러 칸'], [84, 32, '고른 칸: 합치기·굵게·정렬·색'], [81, 53.5, '줄 넣기·빼기'], [81, 60.5, '칸 넣기·빼기·너비'], [75, 75.5, '머리 줄·줄무늬']], go: [['elems', '요소 열기']] },
+      { stage: '④ 꾸미기·요소', t: '표 — 칸에 바로 쓰고 줄·칸 넣기·칸 합치기', d: '<b>요소 → 표·차트 → 표</b> 맨 앞의 「표 (칸에 바로 쓰기)」·「시간표」·「명단표」는 진짜 표입니다. 넣은 뒤 칸을 <b>두 번 누르면</b> 그 칸에 바로 씁니다 — <b>Tab</b> 다음 칸(마지막 칸에서 Tab은 새 줄), <b>Shift+Tab</b> 앞 칸, <b>Esc</b> 끝. 줄 높이는 글 길이에 맞춰 <b>저절로</b> 늘고 줄어듭니다. 손으로 적는 명단·서식이면 오른쪽 <b>줄 최소 높이</b>(예: 10mm)를 정하면 빈 줄도 그 높이가 됩니다(머리 줄은 빼고). <b>칸 고르기</b>: 표를 한 번 누르면 표 전체가 골라지고, 고른 표의 칸을 <b>한 번 더 누르면</b> 그 칸이 파랗게 골라집니다 — 화살표로 옆 칸으로 옮기고(Shift+화살표는 넓히기), <b>Enter</b>로 쓰기, 바로 치면 그 칸에 새 글, <b>⌘B / Ctrl+B</b>로 고른 칸 굵게, <b>Esc</b>로 칸 고르기를 풉니다. <b>여러 칸 고르기</b>: 칸을 한 번 누른 뒤 <b>Shift를 누른 채</b> 다른 칸을 누르면 그 사이 칸이 모두 파랗게 골라집니다. 오른쪽 맨 위 「고른 칸」에서 <b>칸 합치기</b>(글은 모두 남겨 줄을 바꿔 이어 붙임) · <b>합친 칸 나누기</b> · <b>굵게</b> · 왼쪽/가운데/오른쪽 · 칸 안 <b>위·가운데(위아래)·아래</b> · <b>고른 칸 글자 크기</b> · <b>고른 칸 글자 색·바탕</b> · 칸 서식 지우기. 표 전체의 위아래 자리는 아래 모양의 「칸 안 위아래」. 줄·칸을 넣거나 빼도 합친 칸과 칸 서식이 함께 따라갑니다. <b>칸 너비</b>는 표를 고른 뒤 세로 경계선에 마우스를 대면 ↔ 모양이 되고, 그대로 끌면 양옆 칸 너비가 바뀝니다. <b>줄 높이</b>도 같게 — 줄 아래 경계선에 마우스를 대면 ↕ 모양이 되고, 끌면 그 줄만 높아지거나 낮아집니다(글보다 낮아지지는 않음). 오른쪽 「줄」의 <b>줄 높이 같게</b>는 머리 줄을 빼고 모든 줄을 가장 높은 줄에 맞추고, <b>줄 높이 저절로</b>는 끌어서 바꾼 높이를 지우고 다시 글에 맞춥니다. <b>엑셀·한글·구글 시트에서 표를 복사</b>해 칸을 고른 채(또는 칸에 쓰는 중) <b>붙여넣기(Ctrl+V)</b>하면 그 칸부터 여러 칸에 나눠 들어가고, 모자란 줄·칸은 저절로 더해집니다. 거꾸로 표에서 Shift로 여러 칸을 고르고 <b>복사(Ctrl+C)</b>하면 엑셀·한글에 붙여 넣을 수 있는 모양으로 복사되고, <b>Delete</b>를 누르면 고른 칸의 글만 지워집니다(표 전체를 지우려면 칸을 한 번 눌러 고르기를 푼 뒤 Delete). 칸에서 <b>오른쪽 버튼</b>을 누르면 맨 위에 그 칸 기준 줄·칸 넣기·빼기, 칸 합치기(여러 칸을 먼저 고른 때)·합친 칸 나누기·굵게가 바로 나옵니다. 칸을 한 번 누르고 오른쪽에서 <b>위·아래에 줄 넣기 · 줄 빼기 · 왼쪽·오른쪽에 칸 넣기 · 칸 빼기 · 칸 너비 같게 · 고른 칸 넓게/좁게</b>. 모양: 첫 줄을 머리로(남색 바탕·흰 굵은 글), 줄무늬, 글자 크기·줄 간격·칸 안 여백·글꼴·정렬·글자 색·선 색·선 굵기·칸 바탕(바탕 없음이면 뒤 배경이 비침). PowerPoint로 내보내면 <b>PowerPoint 표</b>로 들어가 거기서도 칸 글을 고칠 수 있습니다. 찾아 바꾸기에도 표 칸 글이 들어갑니다. 예전 표(사각형·글 상자를 모은 것)는 그대로 쓸 수 있어요.', img: 'm106-table.jpg',
+        marks: [[33, 30, '진짜 표 넣기 (왼쪽 표·시간표 목록)'], [52, 53, '두 번 누르면 쓰기 · Shift+누르기로 여러 칸 · 경계선 끌기'], [96, 24, '고른 칸: 합치기·굵게·정렬·위아래·글자 크기·색'], [97, 52.4, '줄 넣기·빼기·줄 높이 같게'], [97, 62.8, '칸 넣기·빼기·너비'], [97, 75.8, '머리 줄·줄무늬']], go: [['elems', '요소 열기']] },
       { stage: '④ 꾸미기·요소', t: 'QR·D-day·도장 정보 넣기', d: '<b>요소 → 🔳 QR</b>에 신청서·밴드·유튜브 주소를 넣으면 QR 코드가 들어갑니다(고른 뒤 "QR 내용·색 고치기"). <b>텍스트 → ⏳ D-day 넣기</b>로 "승급심사까지 D-12"를 넣으면 볼 때·뽑을 때 날짜로 저절로 계산됩니다. <b>도장 정보</b>에 전화·주소를 저장해 두면 템플릿의 010-0000-0000·주소 자리가 자동으로 채워지고, 번호가 바뀌면 문서 안에서 한꺼번에 바뀝니다.', go: [['qr', 'QR 넣기'], ['dday', 'D-day 넣기'], ['dojang', '도장 정보']], img: 'm24-qr.jpg', marks: [[41, 41, '연결할 주소'], [34, 54, 'QR 색'], [63.6, 47, '미리 보기'], [69.9, 73, '넣기']] },
       { stage: '⑤ 내기·출력', t: '내기 (인쇄소·SNS)', d: '<b>다운로드</b>를 누르면 맨 위 <b>어디에 쓰나요?</b>에서 목적을 고릅니다 — 🖨 인쇄소에 보내기 · 💬 카톡·SNS · 🏠 집에서 인쇄 · 📊 발표(PowerPoint). 문서에 맞는 것에 <b>권장</b>이 붙고, JPG·공유용 PDF·벡터 PDF·MP4 등은 <b>모든 파일 형식</b>을 펼쳐 고릅니다. 아직 안 고친 자리(○○·010-0000-0000)가 있으면 정보 칸 맨 위에 ⚠로 알려 주고, 다 받으면 파일 이름이 알림에 나옵니다. 인쇄소에 맡길 땐 <b>인쇄소에 보낼 말</b>을 복사하세요. 도장 프린터로 바로 뽑을 땐 위 막대의 🖨. PNG·JPG·그림으로 만든 PDF·PowerPoint(그림)는 <b>글 줄바꿈이 화면과 똑같이</b> 나옵니다(그림으로 그릴 때 화면에서 나뉜 줄을 그대로 씀 — 양끝 맞춤·굵게·색도 그대로).', img: 'm12-download.jpg',
         marks: [[85.2, 20.9, '어디에 쓰나요 — 목적 4가지'], [85.2, 30, '모든 파일 형식 (펼치기)'], [85.2, 55, '다운로드 정보'], [85.2, 93.3, '다운로드']], go: [['download', '다운로드 열기']] },

diff --git a/index.html b/index.html
@@ -17,7 +17,7 @@
 <meta property="og:type" content="website">
 <link rel="preload" href="fonts/NanumGothic.woff2" as="font" type="font/woff2" crossorigin><link rel="preload" href="fonts/NanumGothic-Bold.woff2" as="font" type="font/woff2" crossorigin>
 <link rel="stylesheet" href="fonts/fonts.css?v=73bafcd29e">
-<link rel="stylesheet" href="app.css?v=20261126.1949">
+<link rel="stylesheet" href="app.css?v=20261127.1023">
 </head>
 <body>
 <svg width="0" height="0" style="position:absolute" aria-hidden="true"><defs>
@@ -216,38 +216,38 @@
 <style id="pageStyle"></style>
 <div class="toast" id="toast" popover="manual" hidden></div>
 
-<script src="version.js?v=20261126.1949"></script>
-<script src="fonts/fonts.js?v=20261126.1949"></script>
-<script src="fonts/webfonts.js?v=20261126.1949"></script>
+<script src="version.js?v=20261127.1023"></script>
+<script src="fonts/fonts.js?v=20261127.1023"></script>
+<script src="fonts/webfonts.js?v=20261127.1023"></script>
 <script src="assets.js?v=064ae0db4d"></script>
 <script src="assets-brand.js?v=73aa2617a4"></script>
-<script src="defaults.js?v=20261126.1949"></script>
-<script src="ai.js?v=20261126.1949"></script>
-<script src="storage.js?v=20261126.1949"></script>
-<script src="gdrive.js?v=20261126.1949"></script>
-<script src="live.js?v=20261126.1949"></script>
-<script src="lib.js?v=20261126.1949"></script>
-<script src="calendar.js?v=20261126.1949"></script>
-<script src="templates.js?v=20261126.1949"></script>
-<script src="templates2.js?v=20261126.1949"></script>
-<script src="templates3.js?v=20261126.1949"></script>
-<script src="templates4.js?v=20261126.1949"></script>
-<script src="templates5.js?v=20261126.1949"></script>
-<script src="templates6.js?v=20261126.1949"></script>
-<script src="templates7.js?v=20261126.1949"></script>
-<script src="effects.js?v=20261126.1949"></script>
-<script src="imgedit.js?v=20261126.1949"></script>
-<script src="elements.js?v=20261126.1949"></script>
-<script src="news.js?v=20261126.1949"></script>
-<script src="astream.js?v=20261126.1949"></script>
-<script src="media.js?v=20261126.1949"></script>
-<script src="vtemplates.js?v=20261126.1949"></script>
-<script src="video.js?v=20261126.1949"></script>
-<script src="manual.js?v=20261126.1949"></script>
-<script src="aichat.js?v=20261126.1949"></script>
-<script src="aistudio.js?v=20261126.1949"></script>
-<script src="book.js?v=20261126.1949"></script>
-<script src="import.js?v=20261126.1949"></script>
-<script src="app.js?v=20261126.1949"></script>
+<script src="defaults.js?v=20261127.1023"></script>
+<script src="ai.js?v=20261127.1023"></script>
+<script src="storage.js?v=20261127.1023"></script>
+<script src="gdrive.js?v=20261127.1023"></script>
+<script src="live.js?v=20261127.1023"></script>
+<script src="lib.js?v=20261127.1023"></script>
+<script src="calendar.js?v=20261127.1023"></script>
+<script src="templates.js?v=20261127.1023"></script>
+<script src="templates2.js?v=20261127.1023"></script>
+<script src="templates3.js?v=20261127.1023"></script>
+<script src="templates4.js?v=20261127.1023"></script>
+<script src="templates5.js?v=20261127.1023"></script>
+<script src="templates6.js?v=20261127.1023"></script>
+<script src="templates7.js?v=20261127.1023"></script>
+<script src="effects.js?v=20261127.1023"></script>
+<script src="imgedit.js?v=20261127.1023"></script>
+<script src="elements.js?v=20261127.1023"></script>
+<script src="news.js?v=20261127.1023"></script>
+<script src="astream.js?v=20261127.1023"></script>
+<script src="media.js?v=20261127.1023"></script>
+<script src="vtemplates.js?v=20261127.1023"></script>
+<script src="video.js?v=20261127.1023"></script>
+<script src="manual.js?v=20261127.1023"></script>
+<script src="aichat.js?v=20261127.1023"></script>
+<script src="aistudio.js?v=20261127.1023"></script>
+<script src="book.js?v=20261127.1023"></script>
+<script src="import.js?v=20261127.1023"></script>
+<script src="app.js?v=20261127.1023"></script>
 </body>
 </html>

diff --git a/templates.js b/templates.js
@@ -230,6 +230,33 @@ NC.tpl = (function () {
       T(`${PHONE}  ·  naracha@example.com`, 6, 34, 78, 5, { size: 6.5, color: '#C8CFE4', name: '연락처' }),
       T('NARACHA TAEKWONDO', 40, 8, 46, 5, { font: 'Montserrat', size: 6.5, weight: 700, color: YEL, align: 'right', ls: 0.2 }),
     ], '명함 네이비')]; } },
+    /* 세로 명함 50×90 (11/27 — 새 문서 「명함 세로」에 맞는 전용 템플릿) */
+    { id: 'card-name-v', cat: 'card', name: '세로 명함 · 화이트', w: 50, h: 90, build(uid) { const { T, I, S, P } = H(uid); return [P(WHITE, [
+      S('rect', 0, 0, 50, 30, { fill: NAVY, name: '위 띠' }), S('rect', 0, 30, 50, 1.2, { fill: YEL }),
+      I(D.swoosh, 18, 7, 14, 12, { name: '로고' }),
+      T('NARACHA TAEKWONDO', 3, 21, 44, 4, { font: 'Montserrat', size: 5.6, weight: 700, color: YEL, align: 'center', ls: 0.15 }),
+      T('홍 길 동', 4, 38, 42, 8, { size: 15, weight: 700, align: 'center', name: '이름' }),
+      T('사범 · 지도교사', 4, 47, 42, 5, { size: 7.5, color: '#555', weight: 500, align: 'center', name: '직함' }),
+      S('rect', 21, 55, 8, 0.5, { fill: NAVY, name: '가는 선' }),
+      T(`${PHONE}\nnaracha@example.com\n${ADDR}`, 4, 59, 42, 18, { size: 6.2, lh: 1.6, color: '#333', align: 'center', name: '연락처' }),
+      I(D.logo, 11, 80, 28, 6, { name: '워드마크' }),
+    ], '세로 명함')]; } },
+    { id: 'card-name-v-navy', cat: 'card', name: '세로 명함 · 네이비', w: 50, h: 90, build(uid) { const { T, I, S, P } = H(uid); return [P(NAVY, [
+      S('rect', 0, 0, 3, 90, { fill: YEL, name: '노란 세로 띠' }),
+      I(D.swoosh, 8, 8, 12, 10, { name: '로고' }),
+      T('NARACHA\nTAEKWONDO', 8, 21, 38, 9, { font: 'Montserrat', size: 6, weight: 700, color: YEL, lh: 1.3, ls: 0.15 }),
+      T('홍 길 동', 8, 46, 38, 8, { size: 15, weight: 700, color: WHITE, name: '이름' }),
+      T('관장', 8, 55, 38, 5, { size: 7.5, color: YEL, weight: 600, name: '직함' }),
+      T(`${PHONE}\nnaracha@example.com\n${ADDR}`, 8, 66, 38, 18, { size: 6, lh: 1.6, color: '#C8CFE4', name: '연락처' }),
+    ], '세로 명함 네이비')]; } },
+    { id: 'card-name-v-racha', cat: 'card', name: '세로 명함 · 라차', w: 50, h: 90, build(uid) { const { T, I, S, P } = H(uid); return [P(CREAM, [
+      S('ellipse', 7, 5, 36, 36, { fill: YEL, name: '동그라미' }),
+      I(D.m3, 9, 6, 32, 34, { name: '마스코트' }),
+      T('홍 길 동', 4, 45, 42, 8, { font: 'Jua', size: 16, color: NAVY, align: 'center', name: '이름' }),
+      T('나라차태권도 사범', 4, 54, 42, 5, { size: 7.5, color: RED, weight: 700, align: 'center', name: '직함' }),
+      S('rect', 4, 62, 42, 0.4, { fill: NAVY, opacity: 0.3, name: '가는 선' }),
+      T(`${PHONE}\nnaracha@example.com\n${ADDR}`, 4, 65, 42, 18, { size: 6.2, lh: 1.6, color: '#333', align: 'center', name: '연락처' }),
+    ], '세로 명함 라차')]; } },
     { id: 'card-invite', cat: 'card', name: '대회 초대장', w: 148, h: 105, build(uid) { const { T, I, S, P } = H(uid); return [P(YEL, [
       S('rect', 6, 6, 136, 93, { fill: '', stroke: NAVY, strokeW: 0.6, radius: 3 }),
       T('INVITATION', 12, 13, 124, 6, { font: 'Montserrat', size: 8, weight: 700, color: RED, align: 'center', ls: 0.3 }),

diff --git a/version.js b/version.js
@@ -1,1 +1,1 @@
-window.NARACAL_VER = "20261126.1949";
+window.NARACAL_VER = "20261127.1023";

diff --git a/작업인계.md b/작업인계.md
@@ -2173,3 +2173,11 @@
 - 오늘 저녁 배포: 20261126.1418 ~ 1950 무렵. 큰 것: 시범단 육각 흰 바탕판·배지, SNS 글자 24px, 구글 로그인 미리 이어 받기, **충돌 사본 대신 같이 작업(합치기 — 기준판·계보·합집합)**, 진짜 표(칸 쓰기·줄칸·합치기·칸 서식·경계 끌기·붙여 넣기/복사·칸 고르기·오른쪽 메뉴·줄 최소 높이·PowerPoint 표), 나눔고딕·대화창 정리·메뉴 굵기, 그림 PDF 줄바꿈 고정, 「디자인→문서」 낱말, 새 문서 가로·세로, 이 문서 크기 템플릿, PowerPoint 글꼴 넣기(WOFF2 뒤 막힘) 고침, 연결 끊은 뒤 다시 연결 오류, 같은 문서 새 파일 막기(relinkByDocId), 사본 기록(🔍 점검).
 - **팀장님 확인 부탁**: ① 배포 뒤에도 사본이 또 생기면 저장 설정 → 🔍 점검 맨 아래 「사본 기록」을 알려 주기(까닭이 적혀 있음). 다른 PC·다른 탭이 옛 판으로 열려 있으면 그쪽을 새로 고칠 때까지는 옛 방식 사본이 생길 수 있음. ② 도장 PC에서 나눔고딕 글씨·메뉴 굵기 ③ 표 PowerPoint 내보내기 파일을 PowerPoint에서 열기 ④ 표 여러 칸 복사 → 엑셀에 붙이기 ⑤ 두 PC 실시간 포인터(Firebase 연결 「함께」 표시).
 - **다음에 이어 할 것**: 세로 명함 전용 템플릿 몇 가지(지금은 반응형 인사 카드·엽서만 맞춰 나옴), 표 칸마다 글자 크기·위아래 정렬, 표 줄 높이 끌기, 기준판 없는 합치기(union)에서 상대가 고친 같은 요소 값은 이 PC 것이 이김 — 팀장님 의견 따라 다듬기.
+
+## 2026-11-27 (1) — 표 칸 글자 크기·위아래 정렬 · 줄 높이 끌기 · 세로 명함 템플릿
+- 표 칸마다 **글자 크기**(`cs['r,c'].fs`, 3~200pt — 표 글자 크기와 같으면 지움)·**위아래 정렬**(`cs.va` top·middle·bottom): 속성 칸 「고른 칸」에 위·가운데(위아래)·아래 단추, 「고른 칸 글자 크기」 슬라이더(`tc.fs` → `tblCellSet`). 표 전체 위아래는 모양의 「칸 안 위아래」(`el.valign`, 원래 데이터만 있고 고르는 칸이 없었음). `tblCellLook`이 valign·fs를 돌려줘 화면·PowerPoint(칸 fontSize·valign) 같이.
+- **줄 높이 끌기**(`tblRowBorderAt`·`tblRowDrag`): 고른 표의 줄 아래 경계 4px 안에서 ↕ 커서, 끌면 그 줄 최소 높이 `el.rh[r]`(mm, 0 = 글에 맞춤 — `<tr style="height">`, 글이 많으면 더 늘어남). 끄는 동안 tr 높이·el.h만 바꾸고 놓으면 commit. 「줄」에 **줄 높이 같게**(머리 줄 빼고 가장 높은 줄로, `tblEqRows`)·**줄 높이 저절로**(rh 지움). 줄 넣기·빼기 때 rh 따라감(`tblShift`). tblNorm이 rh·fs·va 걸러 냄(보안 시험: 이상한 값 → 빠짐). PowerPoint rowH = max(rh, 줄 최소 높이).
+- 모양 복사(⌘⌥C)가 표의 **칸 글(rows)까지 복사하던 것** 고침(STYLE_SKIP에 rows·cs·rh).
+- **세로 명함 전용 템플릿 3가지**(templates.js `card-name-v`·`-navy`·`-racha`, 50×90): 화이트(위 남색 띠·가운데 정렬)·네이비(노란 세로 띠)·라차(크림 바탕·노란 원 라차). 넘침 0·틀 밖 0 확인 — 새 문서 「명함 (세로)」의 「이 문서 크기에 맞는 템플릿」에 나옴.
+- 매뉴얼 표 단계 글(칸 위아래·글자 크기·줄 높이 끌기·같게·저절로) + m106 그림 다시 찍음, 번호를 빈 곳으로.
+- 확인: t_tbl3(칸 고르기 → 아래·18pt, 경계 끌기 25.8mm, 줄 넣기 따라감, 같게, 저절로, 되돌리기), PowerPoint 파일 XML(sz 1800·anchor b·줄 30mm), 전체 눌러 보기 오류 0.
